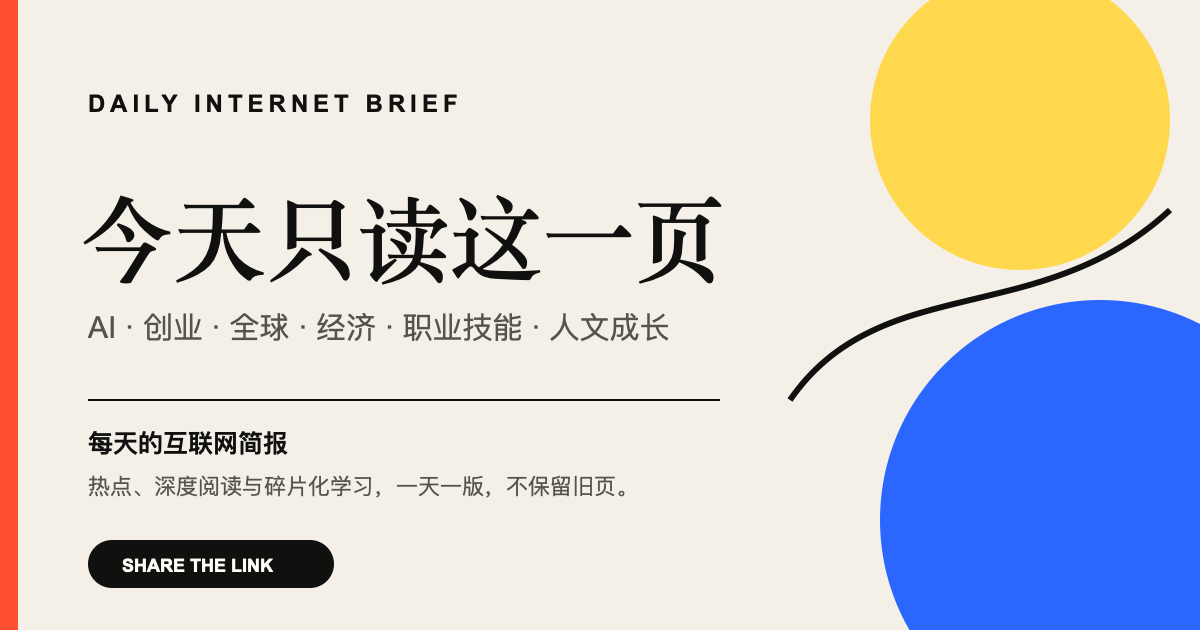
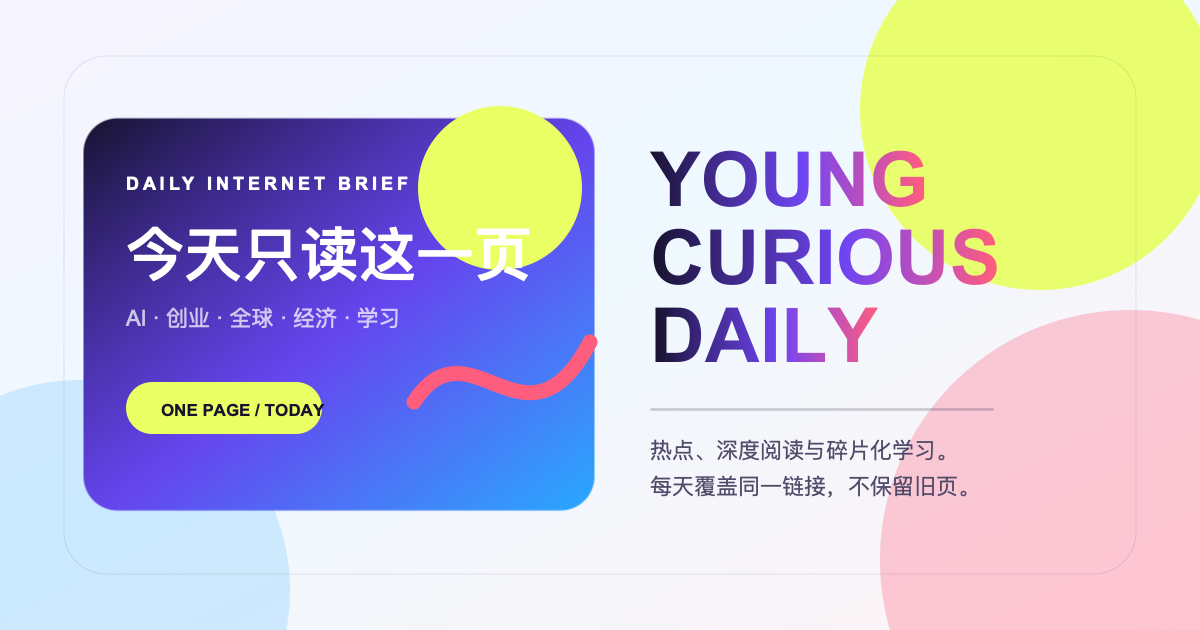
Update today page

diff --git a/index.html b/index.html
@@ -217,7 +217,186 @@
       .section, .social-panel { break-inside: avoid; }
       a { text-decoration: none; }
     }
+
+  <style id="young-theme">
+    :root {
+      --canvas: #f4f1ff;
+      --paper: rgba(255,255,255,.86);
+      --ink: #17132d;
+      --muted: #6e6885;
+      --line: rgba(42, 34, 92, .13);
+      --line-strong: rgba(42, 34, 92, .28);
+      --accent: #7b5cff;
+      --blue: #26a8ff;
+      --yellow: #e9ff63;
+      --green: #20c997;
+      --violet: #8d5cff;
+      --coral: #ff5d7d;
+      --shadow: 0 24px 70px rgba(74, 54, 150, .14);
+    }
+    body {
+      background:
+        radial-gradient(circle at 8% 4%, rgba(233,255,99,.80), transparent 22rem),
+        radial-gradient(circle at 95% 6%, rgba(38,168,255,.24), transparent 25rem),
+        radial-gradient(circle at 85% 65%, rgba(255,93,125,.18), transparent 28rem),
+        linear-gradient(125deg, #f7f4ff 0%, #eef9ff 34%, #fff6ee 68%, #f3efff 100%);
+      background-size: 100% 100%, 100% 100%, 100% 100%, 180% 180%;
+      animation: youngGradient 18s ease infinite alternate;
+    }
+    body::before {
+      content: ""; position: fixed; inset: 0; z-index: -1; pointer-events: none; opacity: .23;
+      background-image: linear-gradient(rgba(23,19,45,.035) 1px, transparent 1px), linear-gradient(90deg, rgba(23,19,45,.035) 1px, transparent 1px);
+      background-size: 34px 34px;
+      mask-image: linear-gradient(to bottom, #000, transparent 82%);
+    }
+    .masthead { background: rgba(255,255,255,.68); border-bottom-color: rgba(42,34,92,.12); }
+    .wordmark { letter-spacing: .13em; }
+    .wordmark-dot { background: linear-gradient(135deg, var(--violet), var(--coral)); box-shadow: 21px 0 0 var(--yellow), 41px 0 0 var(--blue); margin-right: 42px; }
+    .icon-button { border-color: rgba(42,34,92,.16); background: rgba(255,255,255,.72); box-shadow: 0 8px 22px rgba(74,54,150,.08); }
+    .icon-button:hover { background: var(--ink); color: white; border-color: var(--ink); }
+    .hero { padding-top: clamp(34px, 6vw, 78px); }
+    .hero-grid {
+      position: relative; overflow: hidden; padding: clamp(24px, 5vw, 54px);
+      border: 1px solid rgba(42,34,92,.10); border-radius: 36px;
+      background: linear-gradient(135deg, rgba(255,255,255,.88), rgba(255,255,255,.58));
+      box-shadow: 0 32px 90px rgba(74,54,150,.13);
+      backdrop-filter: blur(20px) saturate(145%);
+    }
+    .hero-grid::before {
+      content: ""; position: absolute; width: 330px; height: 330px; right: -110px; bottom: -190px; border-radius: 50%;
+      background: conic-gradient(from 160deg, var(--blue), var(--violet), var(--coral), var(--yellow), var(--blue));
+      filter: blur(2px); opacity: .27;
+    }
+    .hero-grid::after {
+      content: "YOUNG · CURIOUS · DAILY"; position: absolute; right: 28px; bottom: 22px;
+      padding: 9px 14px; border-radius: 999px; background: var(--yellow); color: var(--ink);
+      font-family: var(--mono); font-size: 9px; font-weight: 900; letter-spacing: .12em;
+      transform: rotate(-4deg); box-shadow: 0 9px 25px rgba(74,54,150,.12);
+    }
+    .eyebrow { color: var(--violet); }
+    .eyebrow::before { background: linear-gradient(135deg, var(--violet), var(--blue)); box-shadow: 0 0 0 6px rgba(123,92,255,.11); }
+    h1 {
+      background: linear-gradient(100deg, #17132d 4%, #6145ee 42%, #167fe8 68%, #ff5d7d 94%);
+      -webkit-background-clip: text; background-clip: text; color: transparent;
+      font-family: var(--sans); font-weight: 900; letter-spacing: -.075em;
+    }
+    .hero-deck { color: #5f5976; }
+    .chip { border-color: rgba(42,34,92,.12); background: rgba(255,255,255,.74); box-shadow: 0 7px 18px rgba(74,54,150,.06); }
+    .chip:nth-child(1) { background: #f0edff; color: #5d41ed; }
+    .chip:nth-child(2) { background: #e8fff7; color: #087e66; }
+    .chip:nth-child(3) { background: #eaf6ff; color: #0b6fba; }
+    .chip:nth-child(4) { background: #fff8d8; color: #8a6500; }
+    .issue-card {
+      overflow: hidden; border-radius: 30px;
+      background: linear-gradient(145deg, #1b143c 0%, #3724a6 56%, #147dc0 100%);
+      box-shadow: 0 30px 80px rgba(42,25,132,.30);
+      transform: rotate(1.4deg); transition: transform .3s ease, box-shadow .3s ease;
+    }
+    .issue-card:hover { transform: rotate(0) translateY(-5px); box-shadow: 0 36px 90px rgba(42,25,132,.36); }
+    .issue-card::before { content: ""; position: absolute; width: 190px; height: 190px; left: -90px; bottom: -105px; border-radius: 50%; background: var(--coral); opacity: .75; }
+    .issue-card::after { background: var(--yellow); box-shadow: -120px 190px 0 rgba(38,168,255,.75); }
+    .issue-label, .issue-meta, .issue-stat span { position: relative; z-index: 1; }
+    .issue-date, .issue-stats { position: relative; z-index: 1; }
+    .today-rule { border-top: 0; border-bottom: 0; margin-top: 20px; padding: 12px 16px; border-radius: 999px; background: rgba(255,255,255,.62); box-shadow: 0 8px 24px rgba(74,54,150,.06); }
+    .content-grid { gap: 32px; padding-top: 34px; }
+    .section { margin-bottom: 56px; }
+    .section h2 { font-family: var(--sans); font-weight: 900; letter-spacing: -.055em; }
+    .section-kicker { color: var(--violet); }
+    .section-kicker::after { content: ""; display: inline-block; width: 34px; height: 3px; margin-left: 8px; border-radius: 99px; background: linear-gradient(90deg, var(--violet), var(--coral)); vertical-align: middle; }
+    .signal-grid { grid-template-columns: repeat(12, minmax(0, 1fr)); gap: 15px; }
+    .signal-card {
+      grid-column: span 6; min-height: 300px; border: 1px solid rgba(42,34,92,.10); border-radius: 28px;
+      background: rgba(255,255,255,.79); box-shadow: 0 18px 48px rgba(74,54,150,.09);
+      backdrop-filter: blur(16px); overflow: hidden; transition: transform .25s ease, box-shadow .25s ease, border-color .25s ease;
+    }
+    .signal-card:hover { transform: translateY(-7px) rotate(-.35deg); border-color: rgba(123,92,255,.34); box-shadow: 0 28px 60px rgba(74,54,150,.17); }
+    .signal-card::after { content: ""; position: absolute; width: 130px; height: 130px; right: -60px; top: -65px; border-radius: 50%; background: var(--card-blob, var(--violet)); opacity: .16; }
+    .signal-card:nth-child(2) { --card-blob: var(--coral); }
+    .signal-card:nth-child(3) { --card-blob: var(--blue); }
+    .signal-card:nth-child(4) { --card-blob: var(--yellow); }
+    .signal-card.featured {
+      grid-column: 1 / -1; min-height: 350px;
+      background: linear-gradient(135deg, #1a123e 0%, #3d27aa 45%, #158bbf 100%);
+      border-color: rgba(255,255,255,.13); box-shadow: 0 32px 80px rgba(42,25,132,.28);
+    }
+    .signal-card.featured::before {
+      content: ""; position: absolute; inset: auto -80px -150px auto; width: 360px; height: 360px; border-radius: 50%;
+      background: conic-gradient(from 90deg, var(--coral), var(--violet), var(--blue), var(--yellow), var(--coral));
+      opacity: .32; filter: blur(3px);
+    }
+    .signal-card.featured::after { background: var(--yellow); right: 45px; top: 42px; opacity: .85; box-shadow: -160px 0 0 var(--coral); }
+    .signal-top, .signal-title, .signal-summary, .signal-footer { position: relative; z-index: 1; }
+    .signal-top { color: var(--violet); }
+    .signal-card.featured .signal-top { color: var(--yellow); }
+    .signal-title { font-family: var(--sans); font-weight: 900; letter-spacing: -.045em; }
+    .signal-summary { color: #655f79; }
+    .signal-card.featured .signal-summary { color: rgba(255,255,255,.77); }
+    .signal-action { color: var(--violet); }
+    .signal-card.featured .signal-action { color: var(--yellow); }
+    .deep-grid { gap: 16px; }
+    .deep-card { position: relative; overflow: hidden; border: 0; border-radius: 28px; background: rgba(255,255,255,.84); box-shadow: 0 20px 54px rgba(74,54,150,.11); transition: transform .25s ease, box-shadow .25s ease; }
+    .deep-card:hover { transform: translateY(-7px); box-shadow: 0 30px 65px rgba(74,54,150,.17); }
+    .deep-card:nth-child(1) { border-top: 0; background: linear-gradient(145deg, rgba(255,255,255,.95), rgba(237,231,255,.92)); }
+    .deep-card:nth-child(2) { border-top: 0; background: linear-gradient(145deg, rgba(255,255,255,.95), rgba(229,255,248,.90)); }
+    .deep-card::after { content: ""; position: absolute; width: 140px; height: 140px; right: -66px; bottom: -70px; border-radius: 50%; background: var(--violet); opacity: .12; }
+    .deep-card:nth-child(2)::after { background: var(--green); }
+    .deep-card h3 { font-family: var(--sans); font-weight: 900; letter-spacing: -.045em; }
+    .direction { border: 1px solid rgba(123,92,255,.14); background: rgba(123,92,255,.10); color: var(--violet); }
+    .partner-slot {
+      border: 0; border-radius: 32px; color: white; overflow: hidden;
+      background: linear-gradient(135deg, #1d1644 0%, #6f45f2 54%, #23a9ff 100%);
+      box-shadow: 0 30px 76px rgba(74,54,150,.25);
+    }
+    .partner-slot::before { background: var(--yellow); opacity: .88; }
+    .partner-slot::after { content: ""; position: absolute; width: 210px; height: 210px; left: 42%; bottom: -170px; border-radius: 50%; background: var(--coral); opacity: .7; filter: blur(5px); }
+    .partner-label { color: #e9ff63; }
+    .partner-slot h3 { position: relative; z-index: 1; font-family: var(--sans); font-weight: 900; letter-spacing: -.05em; }
+    .partner-slot p { position: relative; z-index: 1; color: rgba(255,255,255,.75); }
+    .partner-meta { position: relative; z-index: 1; border-left-color: rgba(255,255,255,.22); color: rgba(255,255,255,.72); }
+    .social-tabs { gap: 9px; }
+    .social-tab { border: 1px solid rgba(42,34,92,.11); background: rgba(255,255,255,.78); box-shadow: 0 8px 20px rgba(74,54,150,.06); transition: transform .2s ease, box-shadow .2s ease; }
+    .social-tab:hover { transform: translateY(-2px); box-shadow: 0 12px 26px rgba(74,54,150,.12); }
+    .social-tab:nth-child(1).active { background: linear-gradient(135deg, #17132d, #4d35c8); }
+    .social-tab:nth-child(2).active { background: linear-gradient(135deg, #ff5d7d, #ff8f63); }
+    .social-tab:nth-child(3).active { background: linear-gradient(135deg, #26a8ff, #6f8cff); }
+    .social-tab:nth-child(4).active { background: linear-gradient(135deg, #ff5d7d, #c94bff); }
+    .social-tab:nth-child(5).active { background: linear-gradient(135deg, #17132d, #26a8ff); }
+    .social-panel { border: 0; border-radius: 30px; background: rgba(255,255,255,.86); box-shadow: 0 24px 66px rgba(74,54,150,.12); }
+    .social-panel h3 { font-family: var(--sans); font-weight: 900; letter-spacing: -.045em; }
+    .trend-row { transition: transform .18s ease, background .18s ease; border-radius: 10px; padding-left: 7px; padding-right: 7px; }
+    .trend-row:hover { background: rgba(123,92,255,.06); transform: translateX(3px); }
+    .trend-title { color: var(--violet); }
+    .trend-speed { color: #078466; }
+    .latest-grid { gap: 12px; }
+    .latest-row { border: 1px solid rgba(42,34,92,.09); border-radius: 17px; padding: 15px; background: rgba(255,255,255,.62); transition: transform .2s ease, background .2s ease; }
+    .latest-row:hover { transform: translateY(-3px); background: rgba(255,255,255,.90); }
+    .latest-source { color: var(--violet); }
+    .progress-card, .how-card, .share-preview, .source-details { border-color: rgba(42,34,92,.10); background: rgba(255,255,255,.76); box-shadow: 0 18px 48px rgba(74,54,150,.08); backdrop-filter: blur(16px); }
+    .progress-fill { background: linear-gradient(90deg, var(--violet), var(--blue), var(--coral)); }
+    .task input:checked + .task-check { background: linear-gradient(135deg, var(--violet), var(--blue)); border-color: transparent; }
+    .share-preview img { border: 3px solid rgba(255,255,255,.92); box-shadow: 0 16px 38px rgba(74,54,150,.14); }
+    .footer { border-top-color: rgba(42,34,92,.16); }
+    .ticker { overflow: hidden; margin: 18px 0 0; border-radius: 999px; background: #17132d; color: white; box-shadow: 0 12px 34px rgba(42,25,132,.18); }
+    .ticker-track { display: flex; width: max-content; animation: tickerMove 26s linear infinite; }
+    .ticker-track span { display: inline-flex; align-items: center; gap: 14px; padding: 10px 18px; font-family: var(--mono); font-size: 10px; font-weight: 800; letter-spacing: .12em; white-space: nowrap; }
+    .ticker-track span::after { content: "✦"; color: var(--yellow); }
+    @keyframes youngGradient { to { background-position: 0 0, 0 0, 0 0, 100% 100%; } }
+    @keyframes tickerMove { to { transform: translateX(-50%); } }
+    @media (max-width: 720px) {
+      .hero-grid { border-radius: 28px; padding: 22px; }
+      .hero-grid::after { display: none; }
+      .signal-card { grid-column: 1 / -1; }
+      .signal-card.featured { min-height: 390px; }
+      .issue-card { transform: none; }
+      .today-rule { border-radius: 18px; }
+    }
+    @media print {
+      body::before, .ticker, .hero-grid::before, .hero-grid::after, .issue-card::before, .issue-card::after, .signal-card::after, .deep-card::after, .partner-slot::before, .partner-slot::after { display: none !important; }
+      body { background: white; }
+      .hero-grid, .signal-card, .deep-card, .social-panel { box-shadow: none; border: 1px solid #ddd; }
+    }
   </style>
+
 </head>
 <body>
   <header class="masthead">
@@ -306,6 +485,12 @@
             <div>
               <div class="eyebrow">今日刊 · ${esc(data.weekday)}曜日 · 只读今天</div>
               <h1>每日互联网简报</h1>
+              <div class="ticker">
+                <div class="ticker-track">
+                  <span>AI</span><span>STARTUP</span><span>GLOBAL</span><span>ECONOMY</span><span>CAREER SKILLS</span><span>HUMANITIES</span>
+                  <span>AI</span><span>STARTUP</span><span>GLOBAL</span><span>ECONOMY</span><span>CAREER SKILLS</span><span>HUMANITIES</span>
+                </div>
+              </div>
               <p class="hero-deck">把 AI、创业、全球、经济放在轻松浏览里，把职业技能和人文成长留给稍长的阅读时间。整个页面可以拆成一天中的几个碎片时段完成。</p>
               <div class="profile-line">
                 ${(data.profile?.main_topics || []).map(topic => `<span class="chip">${esc(topic)}</span>`).join('')}
@@ -372,8 +557,8 @@
 
             <aside class="partner-slot" aria-label="合作位">
               <div>
-                <div class="partner-label">Partner Note · 今日合作位</div>
-                <h3>留给一个与今日主题真正相关的品牌。</h3>
+                <div class="partner-label">Brand Lab · 今日原生合作位</div>
+                <h3>让品牌成为今天内容的一部分，而不是打断。</h3>
                 <p>适合 60–100 字的品牌观点、一组研究数据、一项工具更新或一篇产品负责人笔记。保持编辑判断，不加入追踪脚本、弹窗或自动播放。</p>
               </div>
               <div class="partner-meta">
